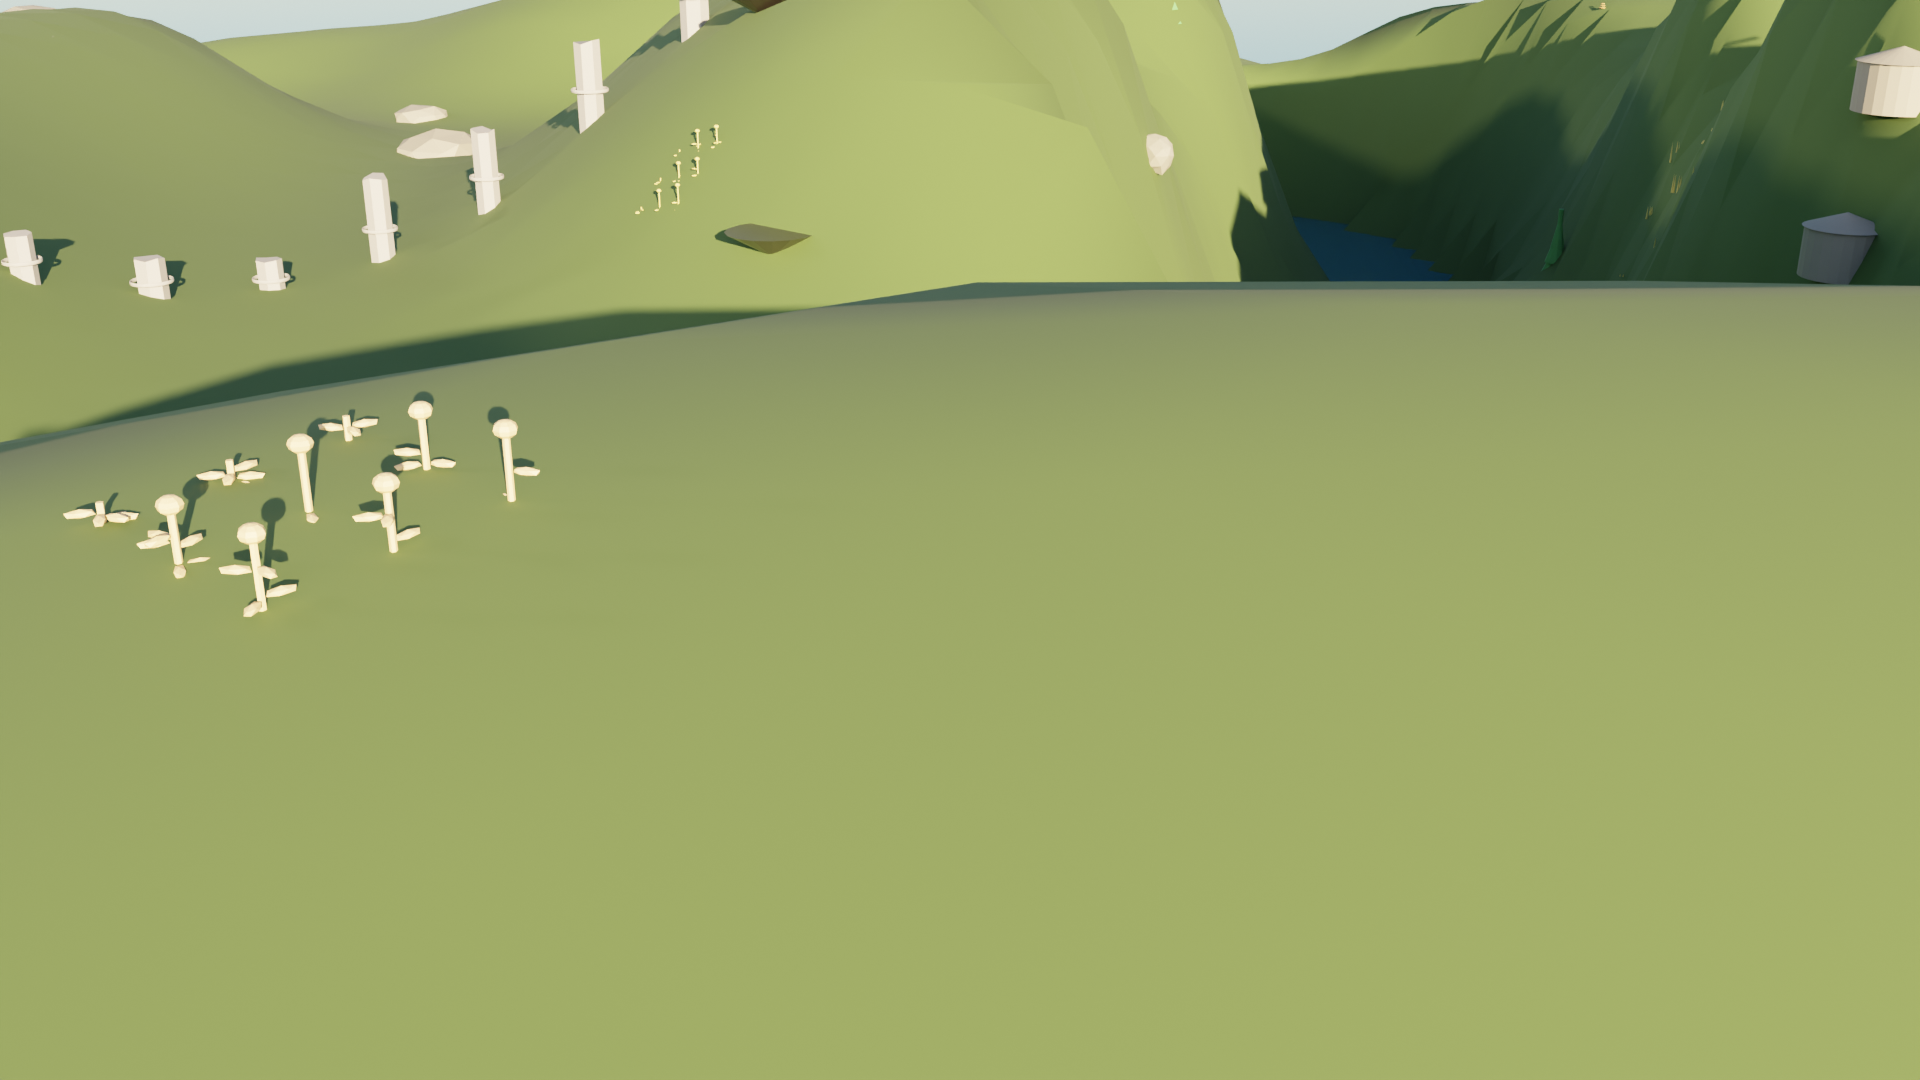
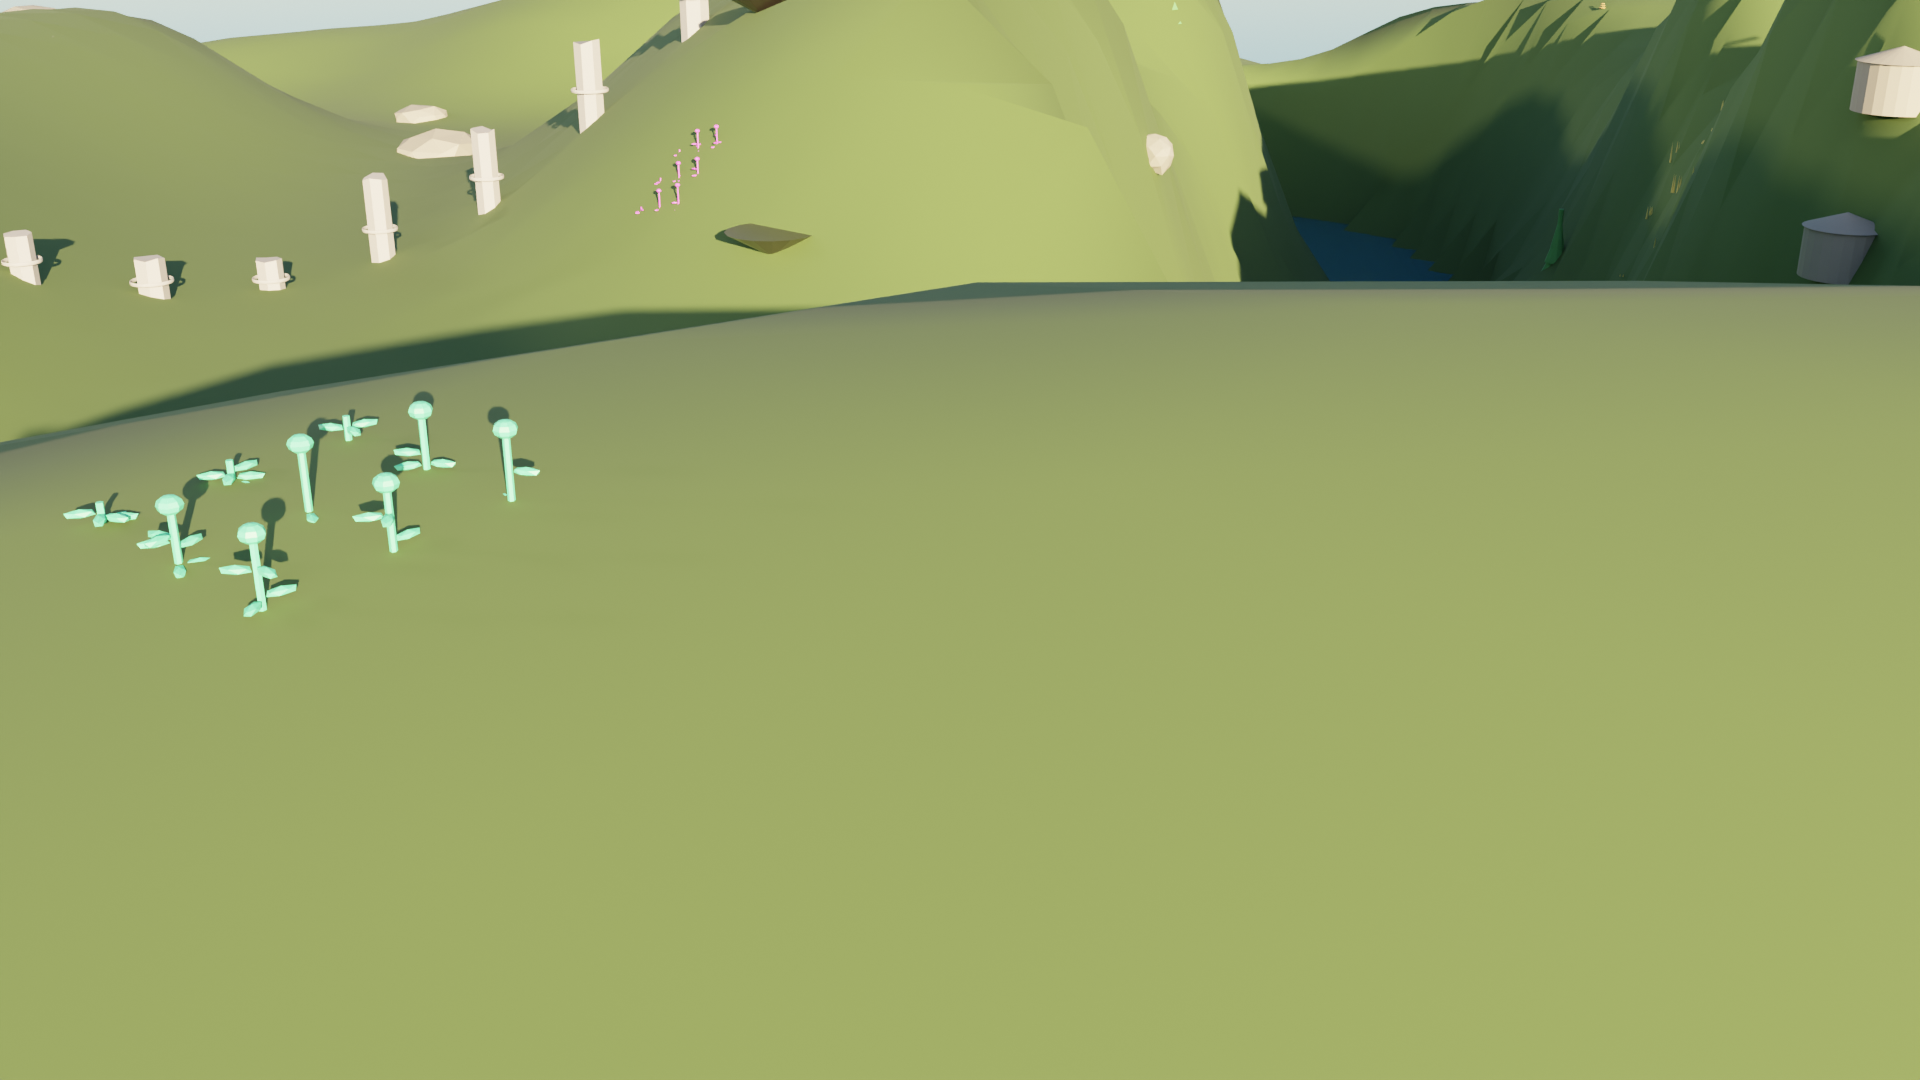
Prometheus round-3: livestock calls attached in-editor (18), HighResShot attempt script, herb pitch-class colors in Blender garden render

Changed region(s): [[0.0938, 0.3667, 0.2812, 0.5194], [0.0312, 0.4583, 0.1562, 0.5806], [0.3438, 0.1222, 0.375, 0.1528]]

diff --git a/engines/unreal/prometheus-island/pi_blender_hero.py b/engines/unreal/prometheus-island/pi_blender_hero.py
@@ -29,7 +29,7 @@ PAL={"herb":(0.18,0.40,0.12),"water":(0.10,0.35,0.55),"stock":(0.45,0.30,0.16),"
 MAT={k:mat("M_"+k,v,0.3 if k=="music" else 0.8,0.6 if k=="music" else 0) for k,v in PAL.items()}
 WATER=mat("M_Water",(0.05,0.30,0.45),0.05); WATER.node_tree.nodes["Principled BSDF"].inputs["Transmission Weight"].default_value=0.6
 GROUND=mat("M_Ground",(0.06,0.11,0.035),0.95)
-HERBC=[mat("M_HerbPC%02d"%i,tuple(0.15+0.5*x for x in (0.5+0.5*math.cos(i*0.5236),0.6,0.5+0.5*math.sin(i*0.5236))),0.6) for i in range(12)]
+import colorsys; HERBC=[mat("M_HerbPC%02d"%i,colorsys.hsv_to_rgb(((i*7)%12)/12.0,0.85,0.55),0.5,0,0.4) for i in range(12)]
 coatpng=sorted(glob.glob(COATS+"T_Coat_*.png")); CM=[mat("M_Coat%d"%k,(1,1,1),0.7,tex=p) for k,p in enumerate(coatpng)]
 # terrain from heightmap (same grid UE used)
 import bmesh

diff --git a/engines/unreal/prometheus-island/prom_hrs_r3.py b/engines/unreal/prometheus-island/prom_hrs_r3.py
@@ -1,0 +1,8 @@
+# Prometheus r3: in-editor HighResShot of the hero framing (editor viewport camera), no saves.
+import unreal, json
+ue=unreal.get_editor_subsystem(unreal.UnrealEditorSubsystem); es=unreal.get_editor_subsystem(unreal.EditorActorSubsystem)
+T=[a for a in es.get_all_level_actors() if a.get_actor_label()=="PI_Terrain"][0]; C=T.get_actor_location()
+cam=C+unreal.Vector(-26000,-20000,16000); rot=unreal.MathLibrary.find_look_at_rotation(cam,C+unreal.Vector(0,0,1500))
+ue.set_level_viewport_camera_info(cam,rot)
+unreal.SystemLibrary.execute_console_command(ue.get_editor_world(),"HighResShot 1920x1080 filename=PI_hero_hrs")
+print("HRS", json.dumps({"cam":[cam.x,cam.y,cam.z],"dir":unreal.Paths.screen_shot_dir()}))
